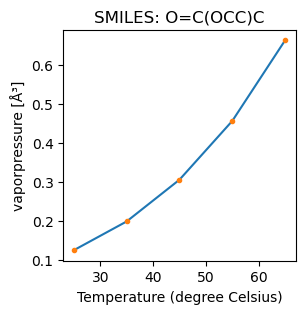
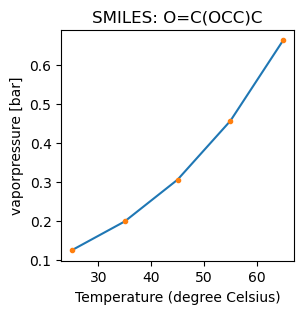
Automatic Sync from SCM-svn to GitHub syncing the following commits: MattiHellstrom: fix incorrect unit prop pred example SCMSUITE-- SO--

diff --git a/doc/source/examples/PropertyPrediction/property_prediction.py b/doc/source/examples/PropertyPrediction/property_prediction.py
@@ -35,6 +35,7 @@ for prop, value in mol.properties.items():
 # ### Temperature-dependent properties (vapor pressure)
 
 prop = 'vaporpressure'
+unit = pyCRS.PropPred.units[prop]
 temperatures_K, vaporpressures = zip(*mol.properties_tdep[prop])
 temperatures_C = [t - 273.15 for t in temperatures_K]  # convert to Celsius
 

diff --git a/doc/source/examples/PropertyPrediction/PropertyPrediction.rst b/doc/source/examples/PropertyPrediction/PropertyPrediction.rst
@@ -3,6 +3,12 @@
 Property Prediction
 =====================================
 
+This example shows how to quickly estimate properties of pure compounds in Python.
+
+.. seealso::
+
+    `Pure compounds property prediction documentation <../../../COSMO-RS/Property_Prediction.html>`__
+
 To follow along, either
 
 * Download :download:`property_prediction.py` (run as ``$AMSBIN/amspython property_prediction.py``).
